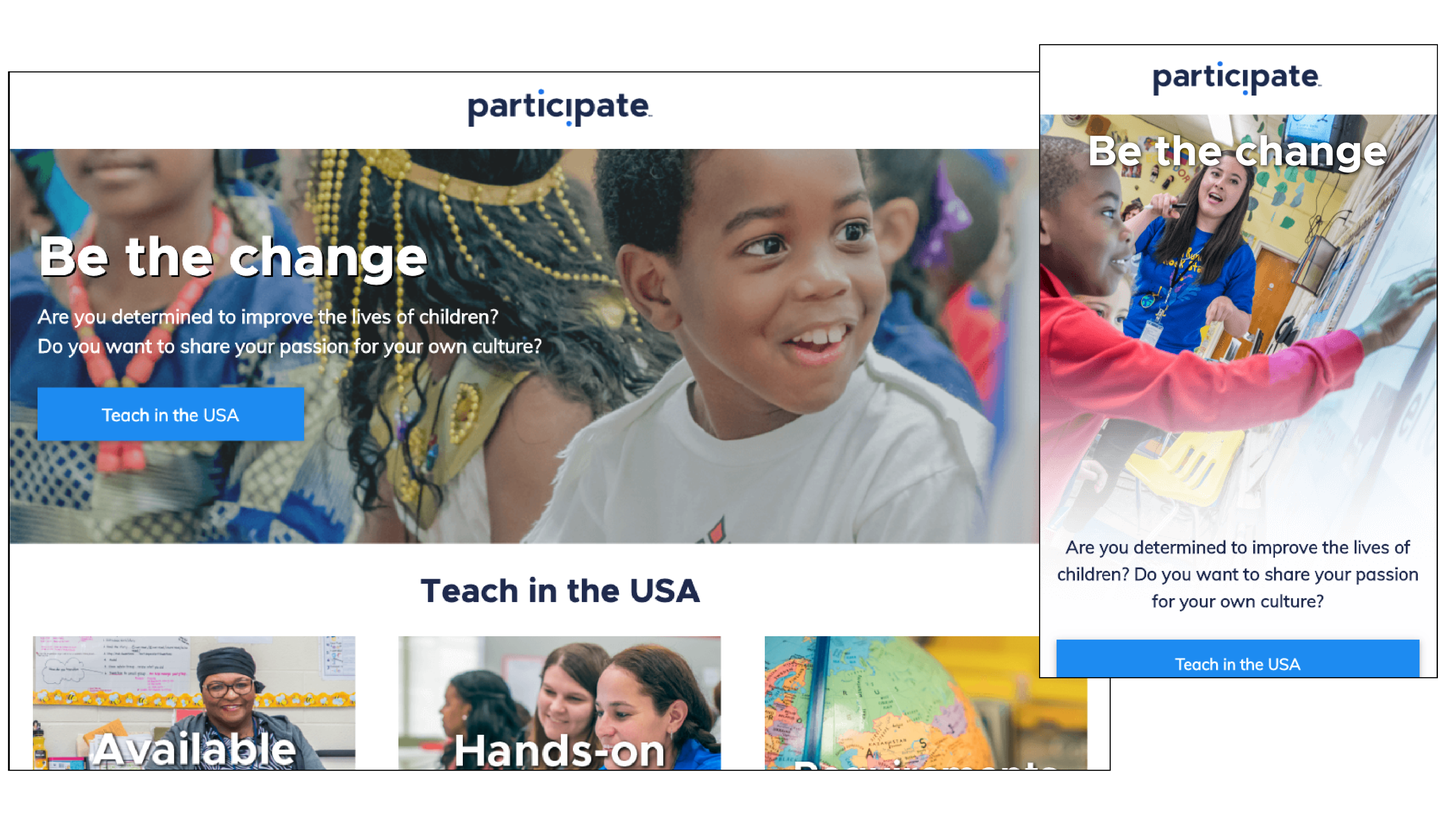
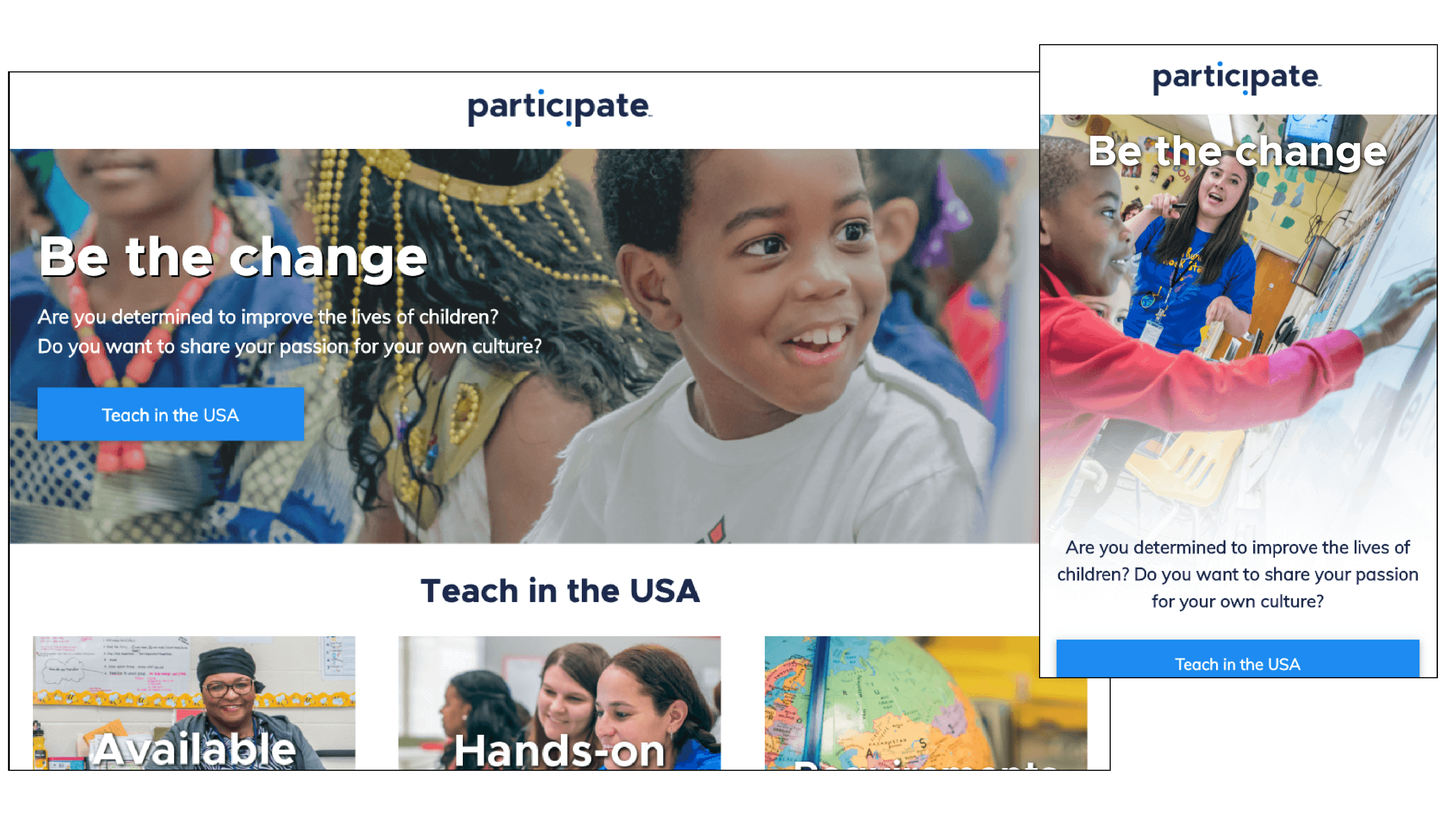
image optimization

diff --git a/shopify-storefront.html b/shopify-storefront.html
@@ -43,7 +43,7 @@
     </div>
   </header>
   <div class="content-container center">
-    <img class="hero" src="./resources/images/shopify/shopify-overview-01.png" alt="Desktop and mobile views of the Participate Shopify storefront" />
+    <img class="hero" src="./resources/images/shopify/shopify-overview-01.jpg" alt="Desktop and mobile views of the Participate Shopify storefront" />
     <a href="https://participateshop.com/" rel="nofollow" target="_blank"><button>Visit the storefront</button></a>
       <p>I worked with a colleague to build the company’s Shopify storefront. I managed the theme code and website design while my colleague managed photography and new product listings.</p>
     <h2>Designing the storefront</h2>
